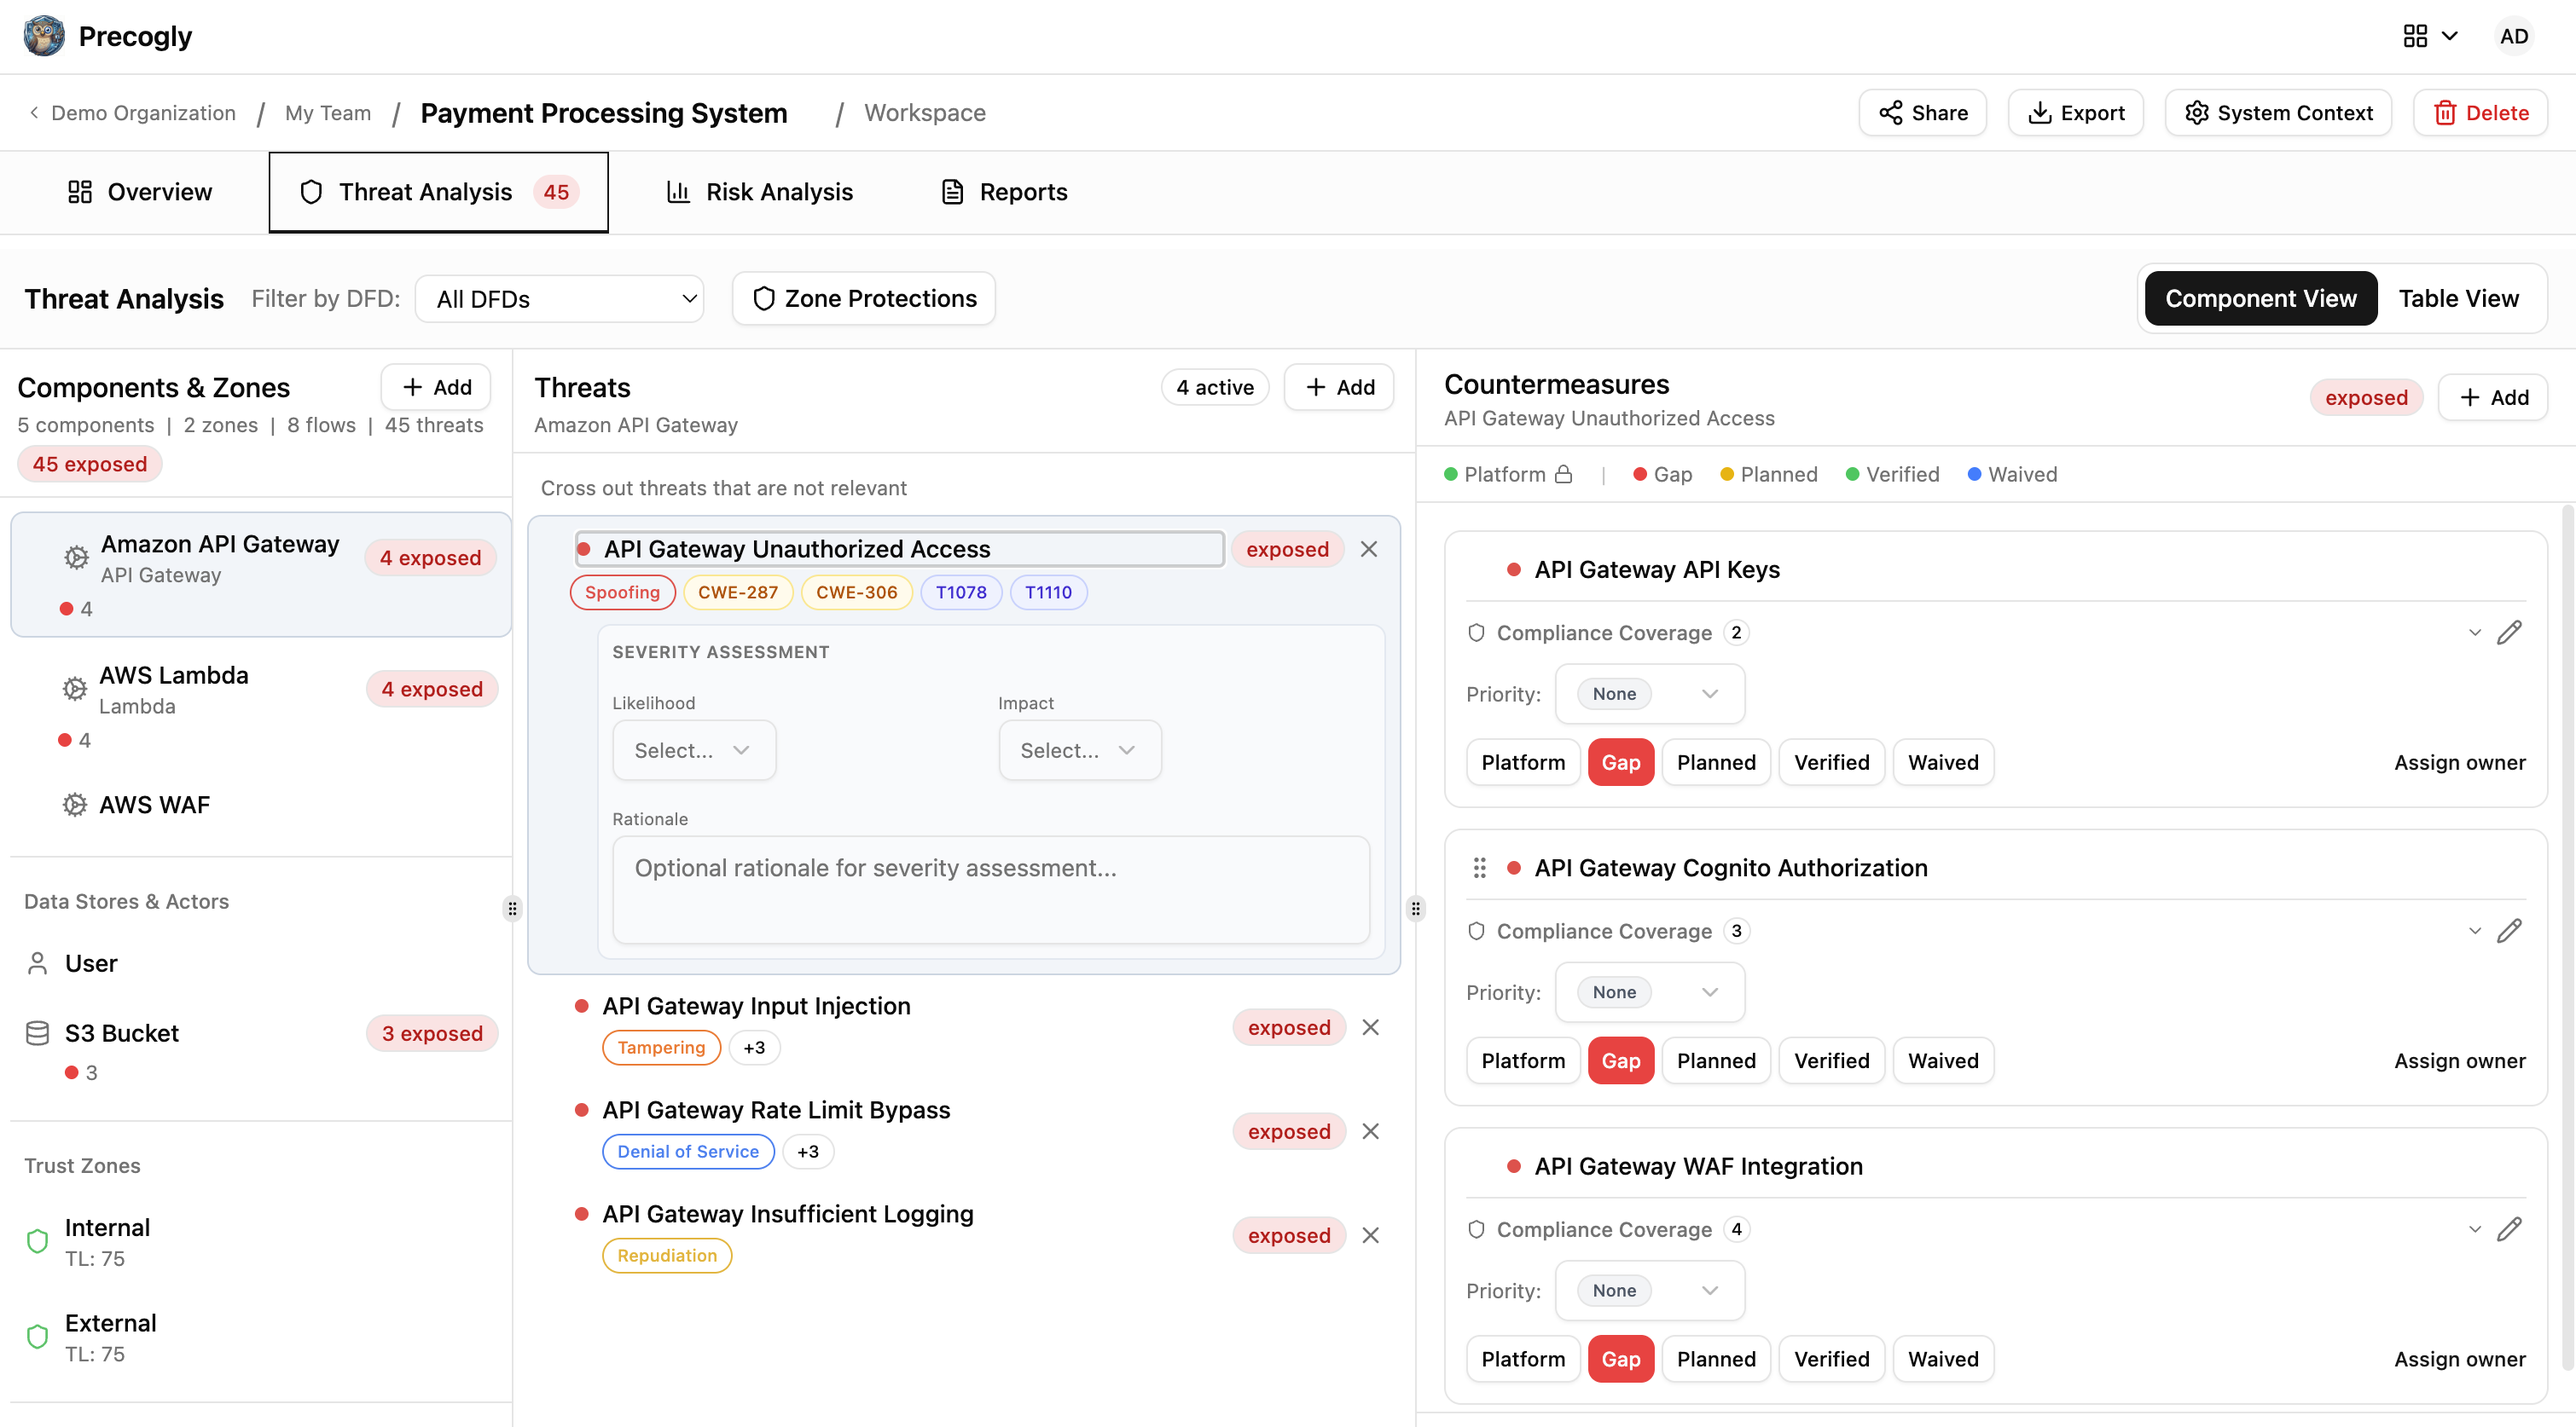
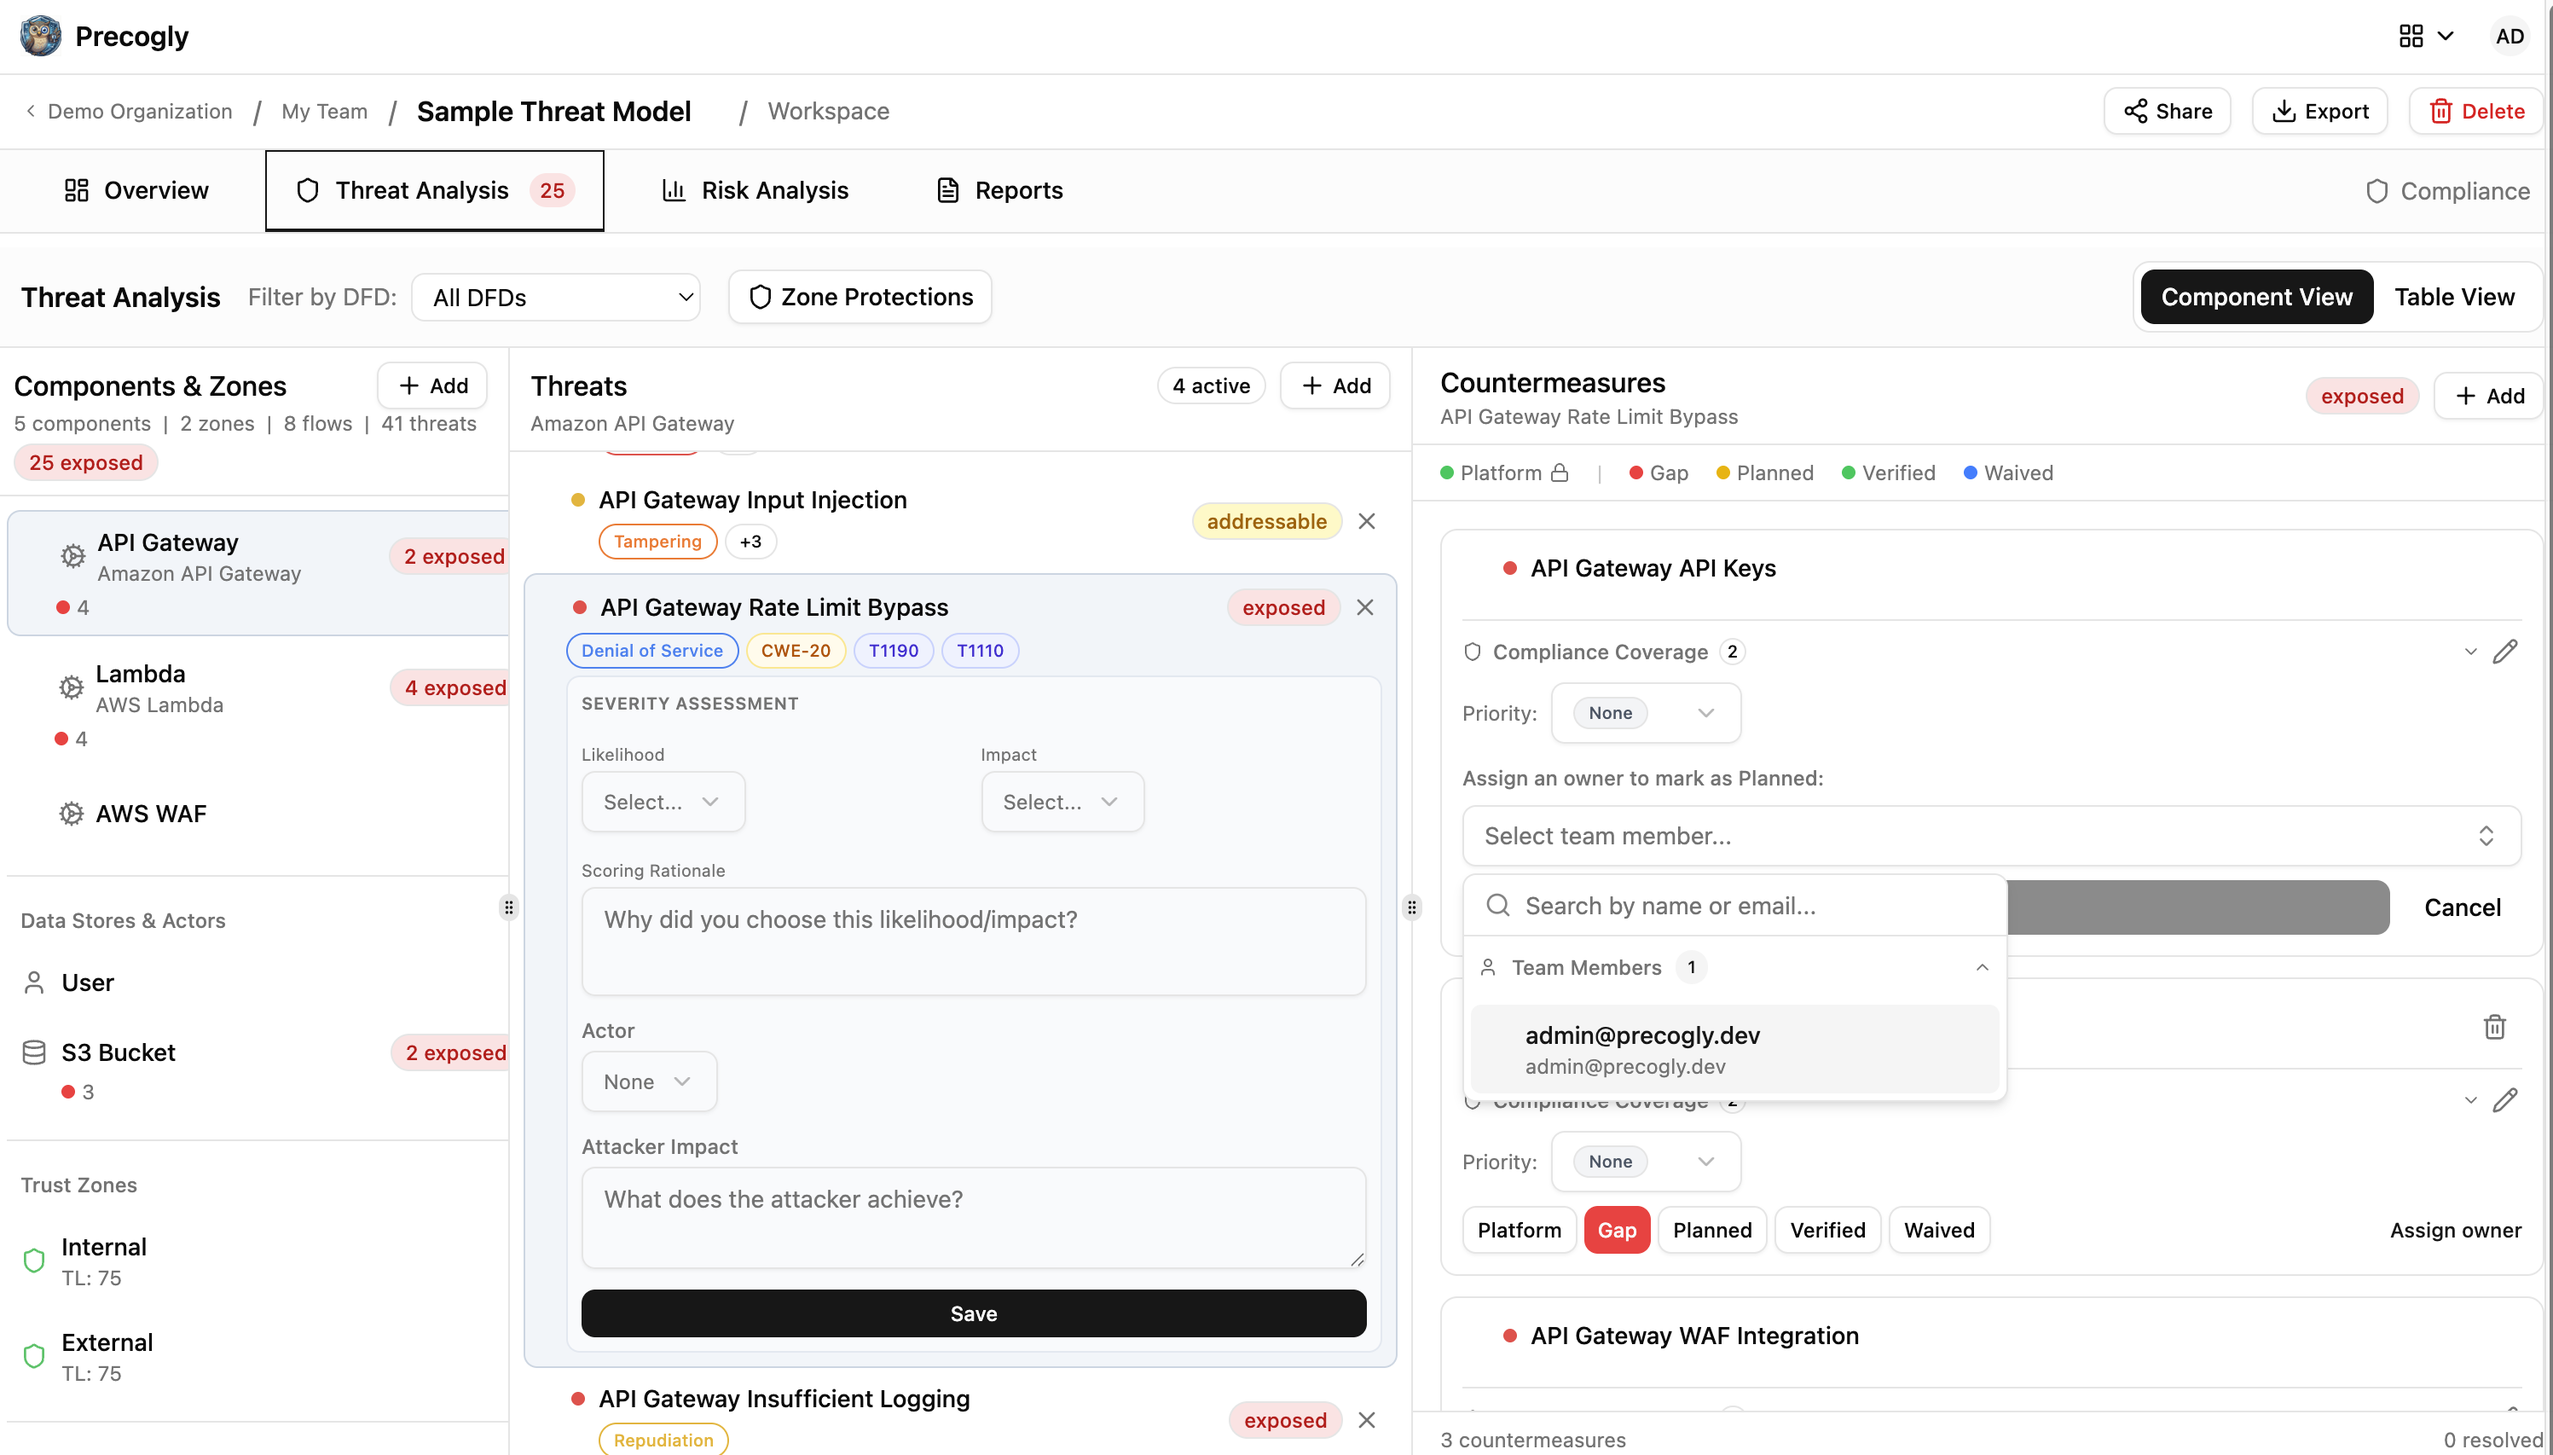
docs: update docs to reflect changes in UI and functionality

diff --git a/docs/concepts/library-packs.md b/docs/concepts/library-packs.md
@@ -19,13 +19,13 @@ When you add a component from a library pack to your threat model, its associate
 
 ## Pack types
 
-| Type | Contains | Example |
-|------|----------|---------|
-| `technology` | Components only | `aws`, `azure`, `gcp` |
-| `full` | Components + threats + countermeasures + joins + templates | `aws-mini` |
-| `compliance` | Framework definitions with requirements | `nist-csf`, `pci-dss` |
-| `taxonomy` | External threat classification taxonomies | `stride-taxonomy`, `mini-capec` |
-| `template` | DFD templates only | — |
+| Type         | Contains                                                   | Example                         |
+| ------------ | ---------------------------------------------------------- | ------------------------------- |
+| `technology` | Components only                                            | `aws`, `azure`, `gcp`           |
+| `full`       | Components + threats + countermeasures + joins + templates | `aws-mini`                      |
+| `compliance` | Framework definitions with requirements                    | `nist-csf`, `pci-dss`           |
+| `taxonomy`   | External threat classification taxonomies                  | `stride-taxonomy`, `mini-capec` |
+| `template`   | DFD templates only                                         | —                               |
 
 ## YAML structure
 
@@ -94,7 +94,7 @@ Here's how the YAML maps to what you see in the UI when previewing a pack:
 components:
   - id: s3
     name: Amazon S3
-    category: datastore          # process | datastore | external_human_actor | external_system_actor
+    category: datastore # process | datastore | external_human_actor | external_system_actor
     type: Object Storage
     provider: aws
     description: |
@@ -119,8 +119,8 @@ countermeasures:
     name: S3 Block Public Access
     description: |
       Enable S3 Block Public Access at account and bucket level.
-    control_type: preventive     # preventive | detective | corrective | deterrent | recovery | compensating | procedural
-    cost: low                    # low | medium | high
+    control_type: preventive # preventive | detective | corrective | deterrent | recovery | compensating | procedural
+    cost: low # low | medium | high
 ```
 
 ### Join files
@@ -134,7 +134,7 @@ mappings:
   - component: s3
     threats:
       - threat: s3-public-exposure
-        applies_to: component    # component | flow | both
+        applies_to: component # component | flow | both
 ```
 
 **threats-countermeasures.yaml** — which countermeasures mitigate which threats:
@@ -166,13 +166,13 @@ mappings:
   - countermeasure: s3-bucket-policy
     requirements:
       - "PR.AC-4"
-    sufficiency: full            # full | partial
+    sufficiency: full # full | partial
 ```
 
 ## How to import a library pack
 
 !!! note "Import requires Security Team role"
-    The **Import** button is only visible to users with the **Security Team** organization role. If you don't see the Import button, ask your organization admin to update your role from **Member** to **Security Team** in the organization settings.
+The **Import** button is only visible to users with the **Security Team** organization role. If you don't see the Import button, ask your organization admin to update your role from **Member** to **Security Team** in the organization settings.
 
 1. Navigate to the **Library Packs** section from the sidebar
 2. Browse available packs — you can filter by type, tag, or search by name
@@ -184,7 +184,7 @@ Packs with dependencies (e.g., `aws-mini` depends on `stride-taxonomy`, `mini-ca
 ![Import dialog with dependency checks and compliance overlay selection](../assets/images/library-packs-import-dialog.png)
 
 !!! info "Compliance overlay selection"
-    When importing a pack, you can choose which compliance framework mappings to include. For example, import only NIST CSF mappings without SOC 2 if that's all you need.
+When importing a pack, you can choose which compliance framework mappings to include. For example, import only NIST CSF mappings without SOC 2 if that's all you need. You will get warnings if packs that are depended upon by the importing pack have not yet been imported.
 
 ## How to unimport a library pack
 
@@ -197,7 +197,7 @@ Packs with dependencies (e.g., `aws-mini` depends on `stride-taxonomy`, `mini-ca
 Unimporting removes the library definitions (components, threats, countermeasures) but **does not delete** any threat model data you've already created using that pack. Your existing threat models keep their data — they just lose the link back to the library definition.
 
 !!! warning
-    You cannot unimport a pack if other imported packs depend on it. Unimport the dependent packs first.
+You cannot unimport a pack if other imported packs depend on it. Unimport the dependent packs first.
 
 **Taxonomy packs vs. compliance packs:** Taxonomy packs (STRIDE, CAPEC, CWE, etc.) cannot be unimported while content packs that reference them are still imported — taxonomies directly enrich threat data. Compliance packs (NIST CSF, ASVS, etc.) can be unimported independently since compliance mappings are optional and degrade gracefully.
 

diff --git a/docs/getting-started/quickstart.md b/docs/getting-started/quickstart.md
@@ -3,7 +3,7 @@
 A walkthrough of Precogly's core workflow using the sample threat model that ships with the demo data.
 
 !!! info "Prerequisites"
-    Make sure Precogly is running locally. See [Installation](installation.md) if you haven't set it up yet.
+Make sure Precogly is running locally. See [Installation](installation.md) if you haven't set it up yet.
 
 ## 0. Log in to Django as Super Admin
 
@@ -15,7 +15,7 @@ When the system first gets seeded with data, it creates a superuser with which y
 ![Django Admin Panel](../assets/images/django-admin.png)
 
 !!! warning
-    Make sure to change this username and password in a production environment.
+Make sure to change this username and password in a production environment.
 
 ## 1. Log in
 
@@ -48,7 +48,7 @@ Click on the sample threat model to open it.
 
 ## 5. Review the overview screen
 
-The overview screen gives you a summary of the threat model and a **completion checklist** that tracks your progress. Notice that **Data Assets** is not yet checked.
+The overview screen gives you a summary of the threat model and a **completion checklist** that tracks your progress. Notice that **Primary assets defined** shows 0 Assets. Also, notice that **Owners assigned** shows 0 out of 110 Owners assigned. This means that countermeasures (or mitigations) to the threats have been allocated but owners to ensure that those countermeasures are implemented have not yet been identified.
 
 ![Overview screen with completion checklist](../assets/images/quickstart-overview-before.png)
 
@@ -83,18 +83,18 @@ Navigate to the threat analysis workspace screen. This is where you review the t
 The three columns map to the core threat modeling questions:
 
 - **Column 1** — "What are we working on?" (components)
-- **Column 2** — "What can go wrong?" (threats, with taxonomy links like CAPEC)
+- **Column 2** — "What can go wrong?" (threats, with taxonomy links like CAPEC) along with severity assessment and a field to enter threat actor details
 - **Column 3** — "What can we do about it?" (countermeasures, with compliance mappings)
 
 Taxonomy mappings come with hyperlinks to their entries, and compliance mappings are viewable on each countermeasure.
 
 ![Threat analysis screen](../assets/images/quickstart-threat-analysis-workspace.png)
 
-Select a countermeasure and assign it to a team member. In the demo environment, the only available user is `admin@precogly.dev`. You'll see that the countermeasure color turns from red (gap) to yellow (planned). Assigning all items under a countermeasure to team members causes the threat to move from "exposed" (red) to "addressable" (yellow).
+Select a countermeasure and assign it to a team member. In the demo environment, the only available user is `admin@precogly.dev`. You'll see that the countermeasure color turns from red (gap) to yellow (planned). Assigning all items under a countermeasure to team members causes the threat to move from "exposed" (red) to "addressable" (yellow). Do this for a few threats.
 
 ## 9. Check your progress
 
-Go back to the overview screen. The **Owners Assigned** item in the completion checklist is now checked, reflecting the assignment you just made. You may need to refresh the page again in case you don't see the assignment to owners.
+Go back to the overview screen. The **Owners assigned** item in the completion checklist is now updated, reflecting the assignment you just made. You may need to refresh the page again in case you don't see the assignment to owners.
 
 ![Updated completion checklist](../assets/images/quickstart-overview-after-allocating.png)
 

diff --git a/docs/concepts/threat-analysis.md b/docs/concepts/threat-analysis.md
@@ -1,10 +1,10 @@
 # Threat Analysis
 
-The threat analysis view is the three-panel workspace where you review components, assess threats, and track countermeasures. Each panel answers one question: *what are we working on?*, *what can go wrong?*, and *what can we do about it?*
+The threat analysis view is the three-panel workspace where you review components, assess threats, and track countermeasures. Each panel answers one question: _what are we working on?_, _what can go wrong?_, and _what can we do about it?_
 
 ![Three-panel threat analysis view — components on the left, threats in the center, countermeasures on the right](../assets/images/threat-analysis-overview.png)
 
-Select a component in the left panel to see its threats. Select a threat to see its countermeasures. Each threat shows a severity assessment (likelihood, impact, rationale) and a status badge — exposed, addressable, or mitigated.
+Select a component in the left panel to see its threats. Select a threat to see its countermeasures. Each threat shows a severity assessment (likelihood, impact, rationale) and a status badge — exposed, addressable, or mitigated. There is also a section where you can assign an attacker persona to the threat.
 
 Threats carry taxonomy tags from your imported [library packs](library-packs.md) — STRIDE categories, CAPEC attack patterns, CWE weaknesses, and MITRE ATT&CK techniques — so you can trace each threat back to established frameworks.
 
